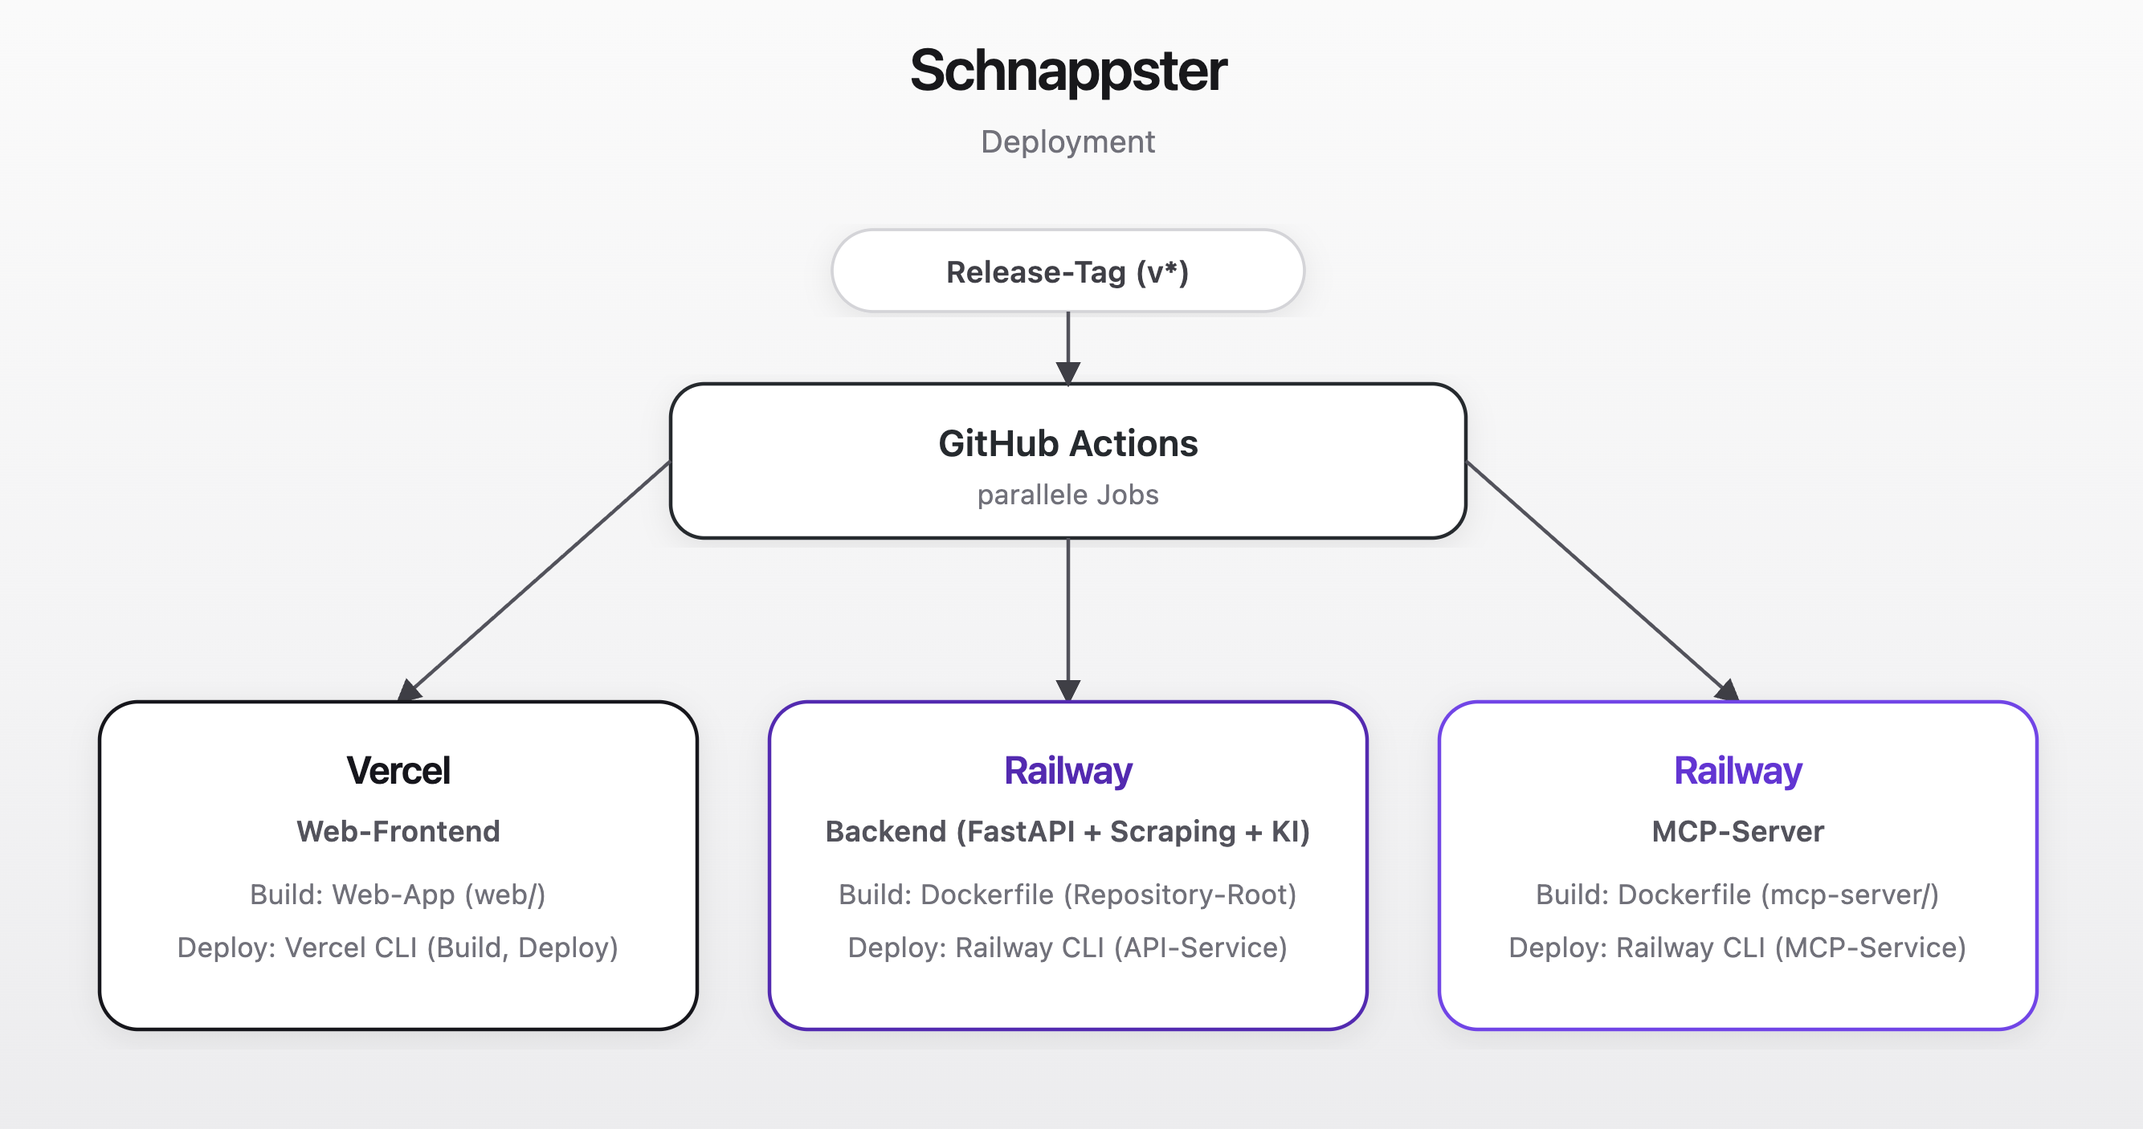
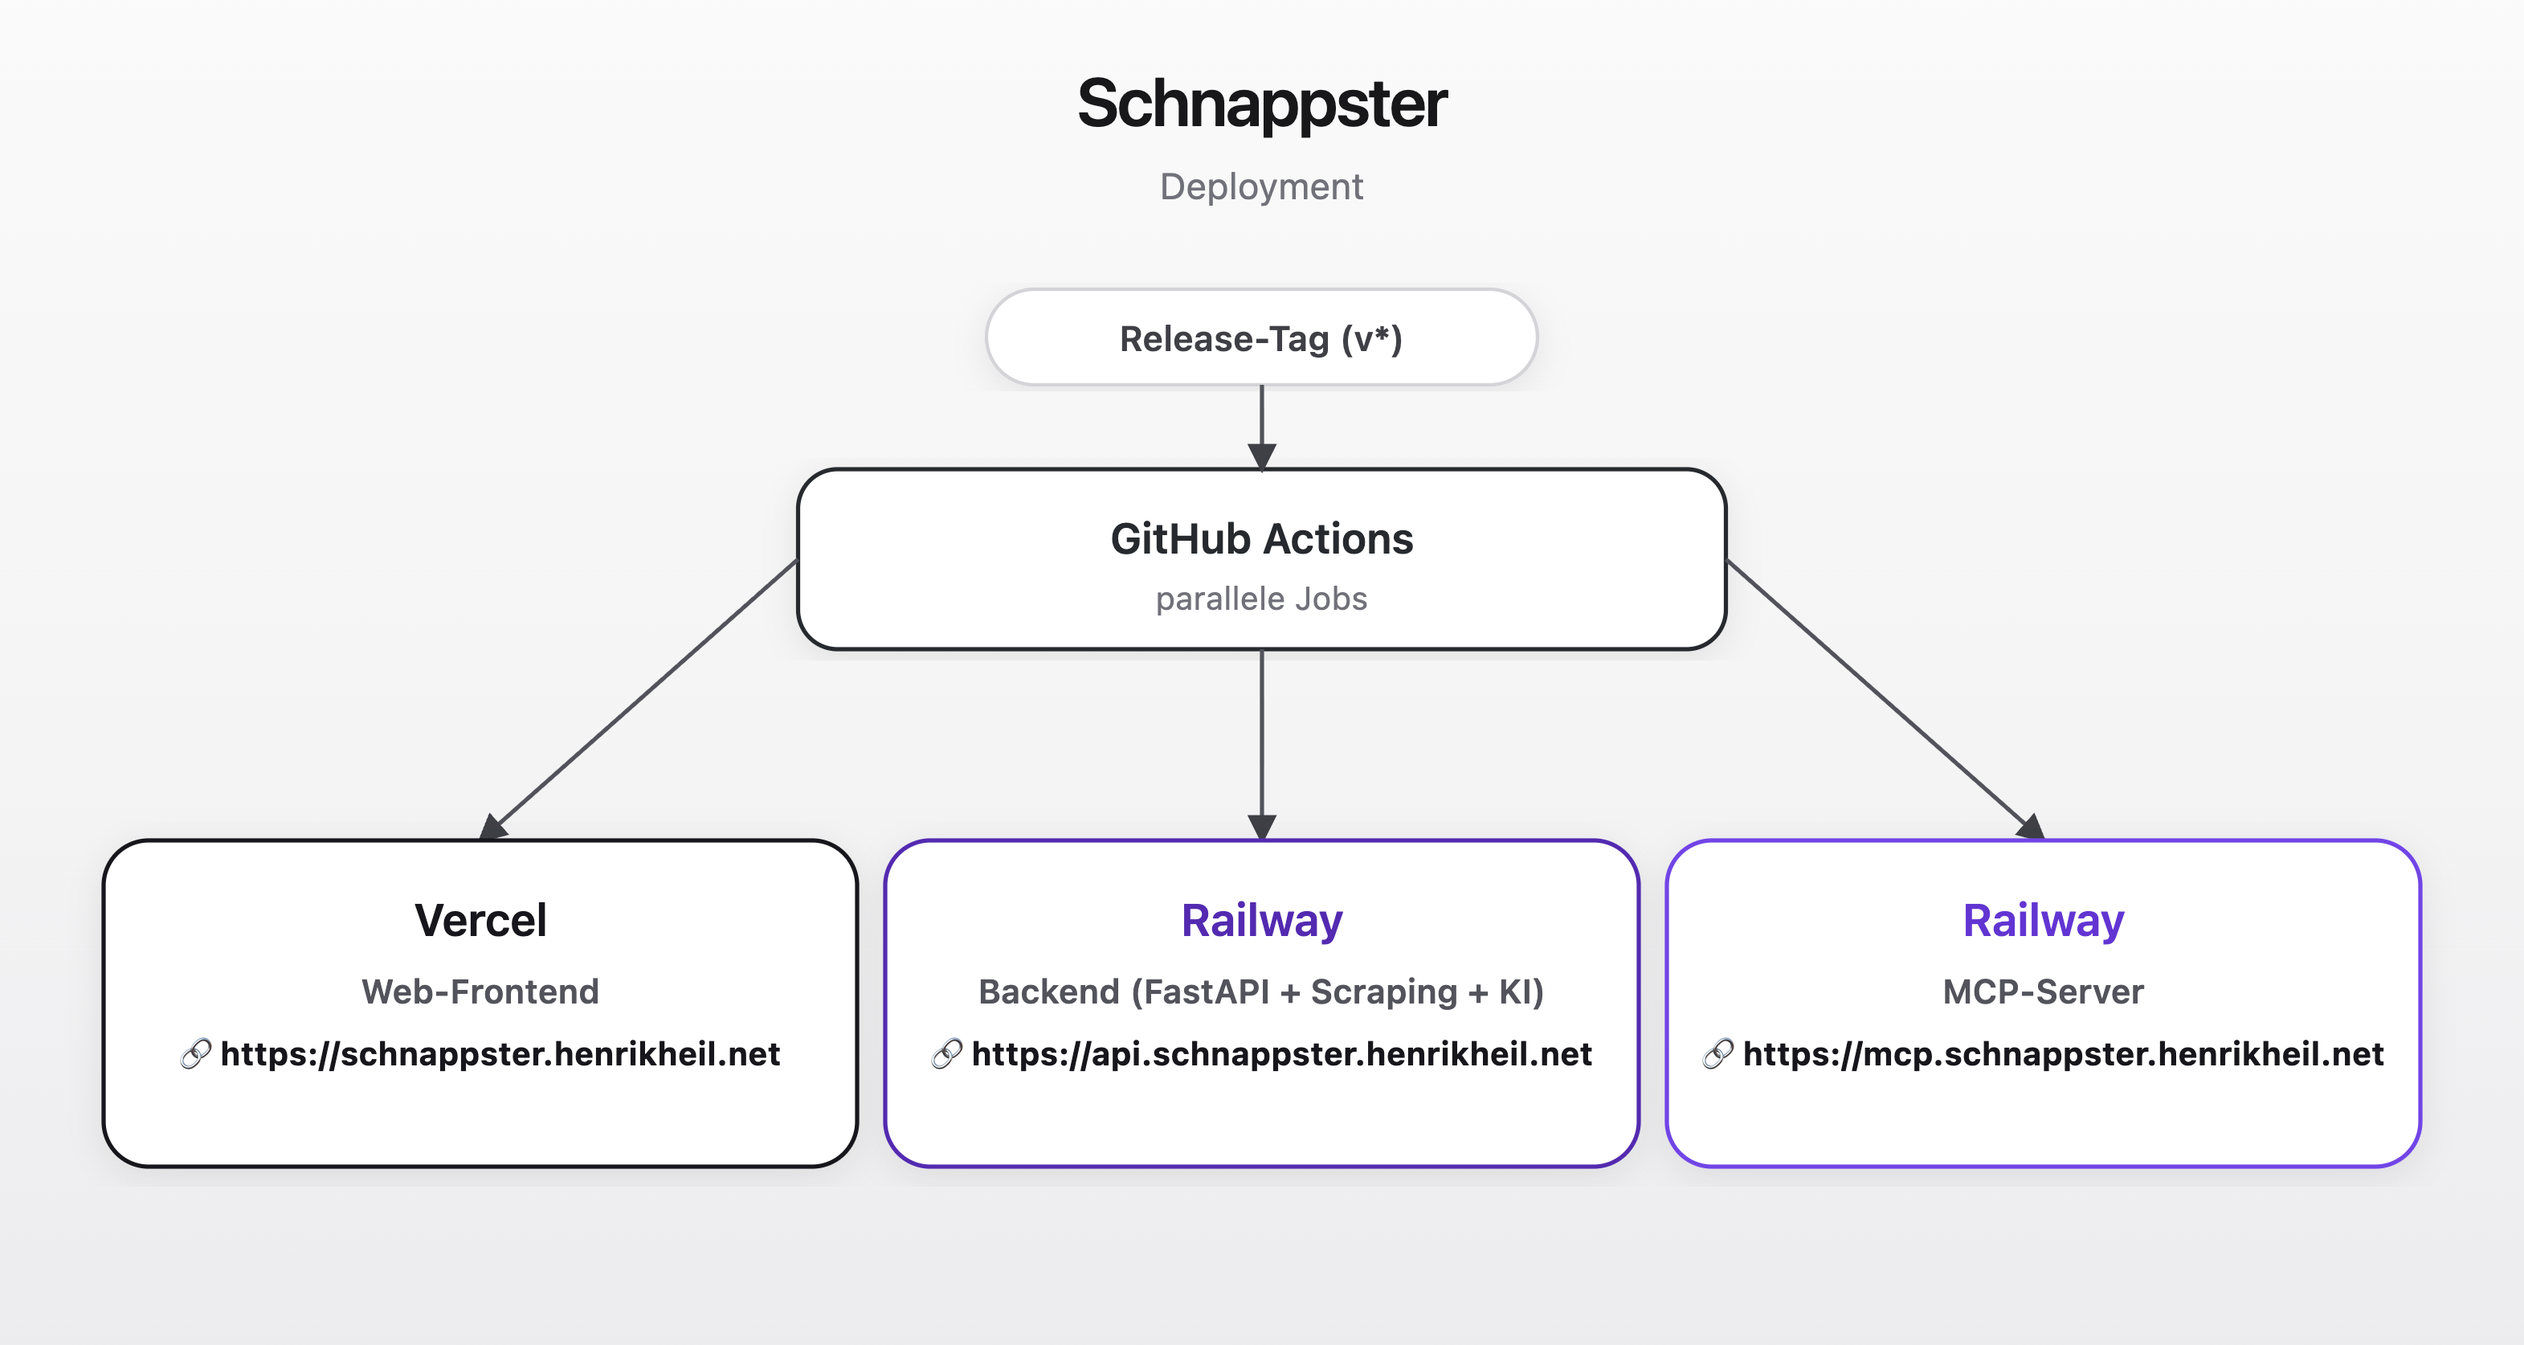
docs(presentation): refocus remote MCP story and deployment links
Refines the presentation narrative around remote MCP authorization and updates deployment diagrams with direct production URLs for each service.

Made-with: Cursor

diff --git a/docs/praesentation-neue-features.html b/docs/praesentation-neue-features.html
@@ -3,7 +3,7 @@
 <head>
   <meta charset="utf-8" />
   <meta name="viewport" content="width=device-width, initial-scale=1.0" />
-  <title>Schnappster &amp; MCP-Server</title>
+  <title>Remote MCP-Server mit Nutzer-Autorisierung</title>
   <link rel="icon" type="image/svg+xml" href="_static/logo.svg" />
   <link rel="stylesheet" href="https://cdn.jsdelivr.net/npm/reveal.js@5.2.0/dist/reveal.css" />
   <link rel="stylesheet" href="https://cdn.jsdelivr.net/npm/reveal.js@5.2.0/dist/theme/white.css" id="theme" />
@@ -110,7 +110,7 @@
       max-width: 320px;
       max-height: 320px;
     }
-    .reveal .title-slide h1 { margin: 0 0 0.04em; font-size: 1.5em; color: var(--foreground); }
+    .reveal .title-slide h1 { margin: 0 0 0.04em; font-size: 1.3em; color: var(--foreground); }
     .reveal .title-slide .subtitle { margin: 0 0 0.05em; font-size: 0.82em; }
     .reveal .title-slide .title-screenshot-wrap {
       margin: 0.5em auto 0;
@@ -285,9 +285,9 @@
       <!-- 1: Titelfolie -->
       <section class="title-slide">
         <img src="_static/logo.svg" alt="Schnappster" class="title-logo" width="300" height="300" />
-        <h1>Schnappster &amp; MCP-Server</h1>
-        <p class="subtitle">Mehrbenutzersystem, Deployment-Pipeline und KI-Steuerung per MCP</p>
-        <div class="title-screenshot-wrap">
+        <h1>Remote MCP-Server mit Nutzer-Autorisierung</h1>
+        <p class="subtitle" style="margin-top: 0.3em;">Schnappster als Tool für KI-Assistenten</p>
+        <div class="title-screenshot-wrap" style="margin-top: 0.9em;">
           <img src="screenshots/schnappster_frontend_dashboard.png" alt="Dashboard" />
         </div>
       </section>
@@ -295,19 +295,84 @@
       <!-- 2: Ziel des Projekts -->
       <section>
         <h2>Ziel</h2>
-        <p class="subtitle">Einen Remote MCP-Server mit OAuth-Autorisierung implementieren.</p>
-        <ul style="margin-top: 0.5em;">
-          <li>Schnappster über das Internet per <strong>KI-Assistent</strong> steuerbar machen</li>
-          <li>Nutzer-Autorisierung über <strong>OAuth 2.1</strong> (Supabase)</li>
-        </ul>
-        <h3 style="margin-top: 0.8em;">Schritte vorab</h3>
-        <ul>
-          <li>Weiterentwicklung zum <strong>Mehrbenutzersystem</strong></li>
-          <li><strong>Automatisches Deployment</strong> der drei Services</li>
-        </ul>
+        <div style="display: flex; align-items: flex-start; gap: 1.2em; margin-top: 0.3em;">
+          <div style="flex: 1;">
+            <p style="font-size: 1.05em; font-weight: 600; color: var(--accent-foreground); margin: 0 0 0.4em;">Einen Remote MCP-Server mit Nutzer-Autorisierung bauen.</p>
+            <ul>
+              <li>Schnappster als Tool für <strong>KI-Assistenten</strong> bereitstellen</li>
+              <li>Nutzer-Autorisierung über <strong>OAuth 2.1</strong> (Supabase)</li>
+            </ul>
+            <h3 style="margin-top: 0.8em;">Was dafür nötig war</h3>
+            <ul>
+              <li>Weiterentwicklung zum <strong>Mehrbenutzersystem</strong></li>
+              <li><strong>Automatisches Deployment</strong> (Frontend, API, MCP-Server)</li>
+            </ul>
+          </div>
+          <div style="flex: 0 0 auto; max-width: 13em; font-size: 0.72em; margin: 0; padding: 0.6em 0.8em; background: #EEF2FF; border: 2px solid #6366F1; border-radius: var(--radius-lg); line-height: 1.45;">
+            <div style="font-weight: 700; color: #4338CA; margin-bottom: 0.3em; display: flex; align-items: center; gap: 0.35em;">
+              <svg xmlns="http://www.w3.org/2000/svg" width="14" height="14" viewBox="0 0 24 24" fill="none" stroke="#6366F1" stroke-width="2.5" stroke-linecap="round" stroke-linejoin="round"><circle cx="12" cy="12" r="10"/><path d="M12 16v-4"/><path d="M12 8h.01"/></svg>
+              MCP
+            </div>
+            <div style="color: var(--muted-foreground); font-size: 0.9em;">Model Context Protocol</div>
+            <div style="margin-top: 0.4em; color: var(--foreground);">Offener Standard von Anthropic, über den Sprachmodelle Tools aufrufen und mit externen Systemen interagieren.</div>
+          </div>
+        </div>
       </section>
 
-      <!-- 3: Systemübersicht -->
+      <!-- Mehrbenutzer -->
+      <section>
+        <h2>Mehrbenutzersystem</h2>
+
+        <!-- Supabase oben -->
+        <div style="background: #ECFDF5; border: 2px solid #10B981; border-radius: var(--radius-lg); padding: 0.5em 0.9em; margin-top: 0.3em; box-shadow: 0 2px 8px rgba(16,185,129,0.08);">
+          <div style="display: flex; align-items: baseline; gap: 0.6em; margin-bottom: 0.25em;">
+            <span style="font-size: 0.82em; font-weight: 700; color: #065F46;">Supabase</span>
+            <span style="font-size: 0.68em; color: #047857;">Managed Datenbank- und Auth-Plattform (Open Source).</span>
+          </div>
+          <div style="display: grid; grid-template-columns: repeat(4, 1fr); gap: 0.4em;">
+            <div style="background: #D1FAE5; border-radius: var(--radius); padding: 0.3em 0.5em; font-size: 0.7em; color: #065F46; font-weight: 500;">PostgreSQL + Row-Level Security</div>
+            <div style="background: #D1FAE5; border-radius: var(--radius); padding: 0.3em 0.5em; font-size: 0.7em; color: #065F46; font-weight: 500;">Login per E-Mail oder Google</div>
+            <div style="background: #D1FAE5; border-radius: var(--radius); padding: 0.3em 0.5em; font-size: 0.7em; color: #065F46; font-weight: 500;">JWT-Token pro Nutzer</div>
+            <div style="background: #D1FAE5; border-radius: var(--radius); padding: 0.3em 0.5em; font-size: 0.7em; color: #065F46; font-weight: 500;">OAuth 2.1 Server</div>
+          </div>
+        </div>
+
+        <!-- Drei Karten darunter -->
+        <div style="display: grid; grid-template-columns: 1fr 1fr 1fr; gap: 0.5em; margin-top: 0.5em;">
+          <div style="background: var(--card); border: 1.5px solid var(--border); border-radius: var(--radius-lg); padding: 0.5em 0.7em; box-shadow: 0 1px 4px rgba(0,0,0,0.05);">
+            <div style="font-size: 0.76em; font-weight: 700; color: var(--accent-foreground); margin-bottom: 0.25em;">RLS (Row-Level Security)</div>
+            <ul style="margin: 0; padding-left: 1em; font-size: 0.72em; color: var(--foreground); line-height: 1.6;">
+              <li>PostgreSQL-Policies pro Nutzer</li>
+              <li>Durchgesetzt direkt in der Datenbank</li>
+            </ul>
+          </div>
+          <div style="background: var(--card); border: 1.5px solid var(--border); border-radius: var(--radius-lg); padding: 0.5em 0.7em; box-shadow: 0 1px 4px rgba(0,0,0,0.05);">
+            <div style="font-size: 0.76em; font-weight: 700; color: var(--accent-foreground); margin-bottom: 0.25em;">Schnappster API</div>
+            <ul style="margin: 0; padding-left: 1em; font-size: 0.72em; color: var(--foreground); line-height: 1.6;">
+              <li>JWT-Token wird bei jedem Request validiert</li>
+              <li>Nutzer-ID fließt in alle Datenbankabfragen ein</li>
+            </ul>
+          </div>
+          <div style="background: var(--card); border: 1.5px solid var(--border); border-radius: var(--radius-lg); padding: 0.5em 0.7em; box-shadow: 0 1px 4px rgba(0,0,0,0.05);">
+            <div style="font-size: 0.76em; font-weight: 700; color: var(--accent-foreground); margin-bottom: 0.25em;">Nutzerrollen</div>
+            <ul style="margin: 0; padding-left: 1em; font-size: 0.72em; color: var(--foreground); line-height: 1.6;">
+              <li>User — eigene Suchaufträge, Schnäppchen &amp; Einstellungen</li>
+              <li>Admin — wie User, zusätzlich Systemeinstellungen, Scraper &amp; KI-Analyse</li>
+            </ul>
+          </div>
+        </div>
+      </section>
+
+      <!-- Deployment -->
+      <section>
+        <h2>Automatisches Deployment</h2>
+        <p class="subtitle">Ein Befehl deployt alles: <code>uv run release</code></p>
+        <div style="text-align: center; margin: 0.3em 0;">
+          <img src="schnappster-deployment.png" alt="Deployment-Pipeline: Release-Tag → GitHub Actions → Vercel + Railway (API + MCP)" class="screenshot" style="max-height: 22em;" />
+        </div>
+      </section>
+
+      <!-- Systemübersicht -->
       <section>
         <h2>Systemübersicht</h2>
         <div style="text-align: center; margin: 0.2em 0;">
@@ -315,67 +380,66 @@
         </div>
       </section>
 
-      <!-- 3: Mehrbenutzer (war 2) -->
+      <!-- MCP Tech Stack -->
       <section>
-        <h2>Mehrbenutzersystem</h2>
-        <p class="subtitle">Supabase Auth + PostgreSQL Row-Level Security.</p>
-        <div class="diagram diagram-simple">
-          <div class="diagram-box frontend">
-            <h4>Login / OAuth</h4>
-            <p>E-Mail oder Google</p>
+        <h2>MCP-Server — Tech Stack</h2>
+        <div style="display: grid; grid-template-columns: 1fr 1fr; gap: 0.55em; margin-top: 0.3em;">
+
+          <div style="background: var(--card); border: 1.5px solid var(--border); border-radius: var(--radius-lg); padding: 0.5em 0.7em; box-shadow: 0 1px 4px rgba(0,0,0,0.05);">
+            <div style="font-size: 0.78em; font-weight: 700; color: var(--accent-foreground); margin-bottom: 0.3em; display: flex; align-items: center; gap: 0.3em;">
+              <span style="display:inline-block; width:0.55em; height:0.55em; border-radius:50%; background:#F59E0B; flex-shrink:0;"></span>
+              Python 3.13
+            </div>
+            <ul style="margin: 0; padding-left: 1.1em; font-size: 0.76em; color: var(--foreground); line-height: 1.6;">
+              <li>FastMCP — Streamable HTTP</li>
+              <li>httpx — API-Client</li>
+              <li>MCP Apps — eingebettete HTML-Oberflächen</li>
+            </ul>
           </div>
-          <div class="diagram-arrow-between" aria-hidden="true">→</div>
-          <div class="diagram-box auth">
-            <h4>Supabase</h4>
-            <p>JWT-Token</p>
+
+          <div style="background: var(--card); border: 1.5px solid var(--border); border-radius: var(--radius-lg); padding: 0.5em 0.7em; box-shadow: 0 1px 4px rgba(0,0,0,0.05);">
+            <div style="font-size: 0.78em; font-weight: 700; color: #065F46; margin-bottom: 0.3em; display: flex; align-items: center; gap: 0.3em;">
+              <span style="display:inline-block; width:0.55em; height:0.55em; border-radius:50%; background:#10B981; flex-shrink:0;"></span>
+              Autorisierung
+            </div>
+            <ul style="margin: 0; padding-left: 1.1em; font-size: 0.76em; color: var(--foreground); line-height: 1.6;">
+              <li>Supabase OAuth 2.1 Server</li>
+              <li>Token-Verifikation per JWT</li>
+            </ul>
           </div>
-          <div class="diagram-arrow-between" aria-hidden="true">→</div>
-          <div class="diagram-box backend">
-            <h4>API + DB</h4>
-            <p>Daten-Isolation</p>
+
+          <div style="background: var(--card); border: 1.5px solid var(--border); border-radius: var(--radius-lg); padding: 0.5em 0.7em; box-shadow: 0 1px 4px rgba(0,0,0,0.05);">
+            <div style="font-size: 0.78em; font-weight: 700; color: #1E40AF; margin-bottom: 0.3em; display: flex; align-items: center; gap: 0.3em;">
+              <span style="display:inline-block; width:0.55em; height:0.55em; border-radius:50%; background:#3B82F6; flex-shrink:0;"></span>
+              Betrieb
+            </div>
+            <ul style="margin: 0; padding-left: 1.1em; font-size: 0.76em; color: var(--foreground); line-height: 1.6;">
+              <li>Railway — eigener Service, parallel zur API</li>
+            </ul>
           </div>
+
+          <div style="background: var(--card); border: 1.5px solid var(--border); border-radius: var(--radius-lg); padding: 0.5em 0.7em; box-shadow: 0 1px 4px rgba(0,0,0,0.05);">
+            <div style="font-size: 0.78em; font-weight: 700; color: #4338CA; margin-bottom: 0.3em; display: flex; align-items: center; gap: 0.3em;">
+              <span style="display:inline-block; width:0.55em; height:0.55em; border-radius:50%; background:#6366F1; flex-shrink:0;"></span>
+              Entwicklung
+            </div>
+            <ul style="margin: 0; padding-left: 1.1em; font-size: 0.76em; color: var(--foreground); line-height: 1.6;">
+              <li>Cloudflare Quick Tunnel — HTTPS</li>
+              <li>HTTP-Proxy (mitmproxy)</li>
+            </ul>
+          </div>
+
         </div>
-        <ul>
-          <li><strong>API-Ebene:</strong> jede Abfrage filtert nach <code>owner_id</code></li>
-          <li><strong>DB-Ebene:</strong> RLS-Policies als Sicherheitsnetz</li>
-          <li><strong>Rollen:</strong> User (eigene Daten) / Admin (globale Einstellungen)</li>
-        </ul>
       </section>
 
-      <!-- 3: Deployment -->
-      <section>
-        <h2>Automatisches Deployment</h2>
-        <p class="subtitle">Ein Befehl deployed alles — drei parallele Jobs.</p>
-        <div style="text-align: center; margin: 0.3em 0;">
-          <img src="schnappster-deployment.png" alt="Deployment-Pipeline: Release-Tag → GitHub Actions → Vercel + Railway (API + MCP)" class="screenshot" style="max-height: 22em;" />
-        </div>
-      </section>
-
-      <!-- 4: Was ist MCP? -->
-      <section>
-        <h2>Was ist MCP?</h2>
-        <p class="subtitle">Model Context Protocol — ein offener Standard von Anthropic.</p>
-        <div class="feature-blocks">
-          <div class="feature-block highlight">
-            KI-Modelle können von sich aus <strong>nicht</strong> auf externe Systeme zugreifen.
-            MCP definiert ein Protokoll, über das sie <strong>Tools aufrufen</strong> und <strong>Aktionen ausführen</strong>.
-          </div>
-        </div>
-        <ul style="margin-top: 0.4em;">
-          <li><strong>MCP-Server</strong> stellt Tools bereit</li>
-          <li><strong>MCP-Client</strong> (Claude, Cursor, ...) entdeckt sie automatisch</li>
-          <li>Nutzer tippt natürliche Sprache → KI ruft passende Tools auf</li>
-        </ul>
-      </section>
-
-      <!-- 5: Der Schnappster MCP-Server -->
+      <!-- Der Schnappster MCP-Server -->
       <section>
         <h2>Der Schnappster MCP-Server</h2>
-        <p class="subtitle">Proxy zwischen KI-Client und Schnappster-API.</p>
+        <p class="subtitle">Vermittler zwischen KI-Client und Schnappster-API.</p>
         <div class="diagram diagram-simple" style="gap: 0.8rem;">
           <div class="diagram-box mcp" style="max-width: 200px;">
             <h4>KI-Client</h4>
-            <p>Claude, Cursor, ...</p>
+            <p>Claude, Cursor, …</p>
           </div>
           <div class="diagram-arrow-between" style="font-size: 1.4em;" aria-hidden="true">↔</div>
           <div class="diagram-box backend" style="max-width: 200px;">
@@ -399,20 +463,6 @@
         <p class="section-note">Gleiche Berechtigungen wie im Browser — Bearer-Token wird durchgereicht.</p>
       </section>
 
-      <!-- 6: MCP-Auth -->
-      <section>
-        <h2>MCP-Autorisierung</h2>
-        <p class="subtitle">OAuth 2.1 via Supabase — kein manuelles Token-Kopieren.</p>
-        <ol>
-          <li>MCP-Server-URL in Cursor eintragen</li>
-          <li>Cursor erkennt den OAuth-Server automatisch</li>
-          <li>Browser öffnet sich → <strong>Supabase-Login</strong></li>
-          <li>Nutzer bestätigt Freigabe auf <strong>/connect</strong></li>
-          <li>Cursor erhält Token → <strong>alle Tools sofort bereit</strong></li>
-        </ol>
-        <p class="section-note">Funktioniert mit <strong>Cursor</strong>, <strong>Claude</strong> und jedem MCP-fähigen Client.</p>
-      </section>
-
       <!-- 7: MCP Apps -->
       <section>
         <h2>MCP Apps</h2>
@@ -434,22 +484,6 @@
         </div>
       </section>
 
-      <!-- 8: Zusammenfassung -->
-      <section>
-        <h2>Zusammenfassung</h2>
-        <table>
-          <thead>
-            <tr><th>Bereich</th><th>Vorher</th><th>Jetzt</th></tr>
-          </thead>
-          <tbody>
-            <tr><td>Benutzer</td><td>Einzelnutzer</td><td>Supabase Auth + RLS</td></tr>
-            <tr><td>Datenbank</td><td>SQLite</td><td>PostgreSQL + RLS-Policies</td></tr>
-            <tr><td>Deployment</td><td>Manuell</td><td>Git-Tag → Vercel + Railway</td></tr>
-            <tr><td>KI-Zugriff</td><td>Nur intern</td><td>Remote MCP-Server + OAuth</td></tr>
-            <tr><td>Bedienung</td><td>Nur Browser</td><td>Browser + KI-Assistenten</td></tr>
-          </tbody>
-        </table>
-      </section>
 
       <!-- 10: Ende -->
       <section class="thanks">
